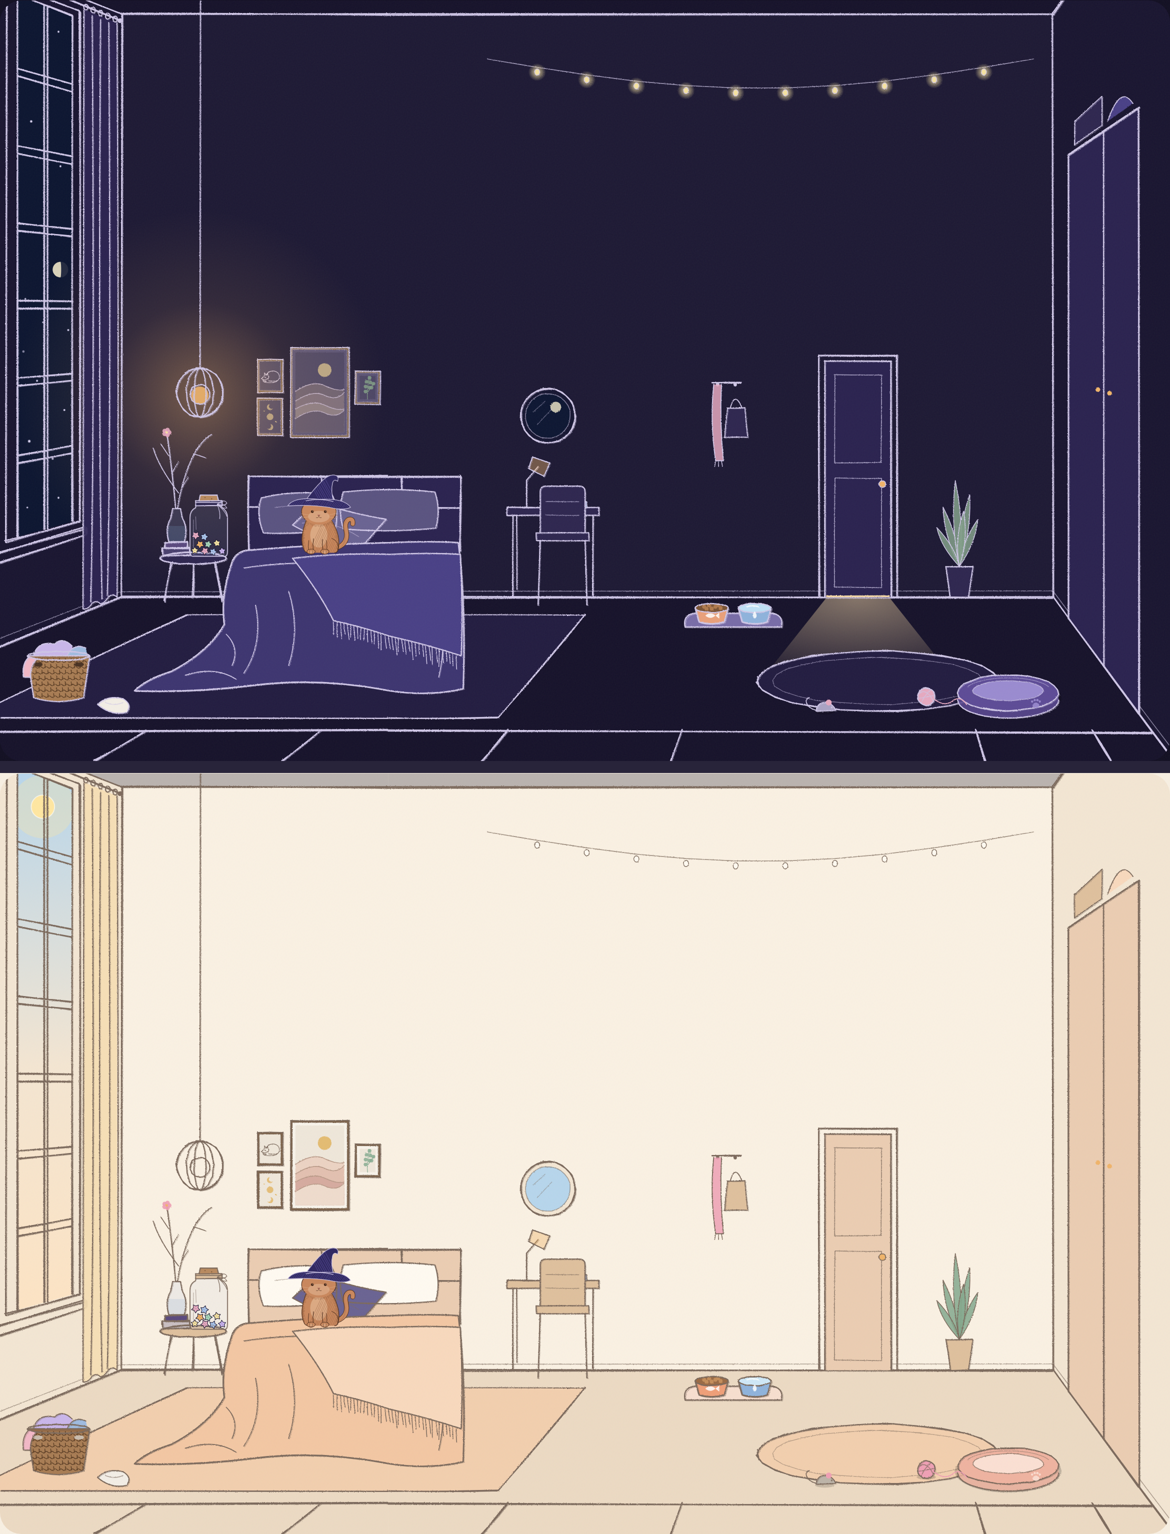
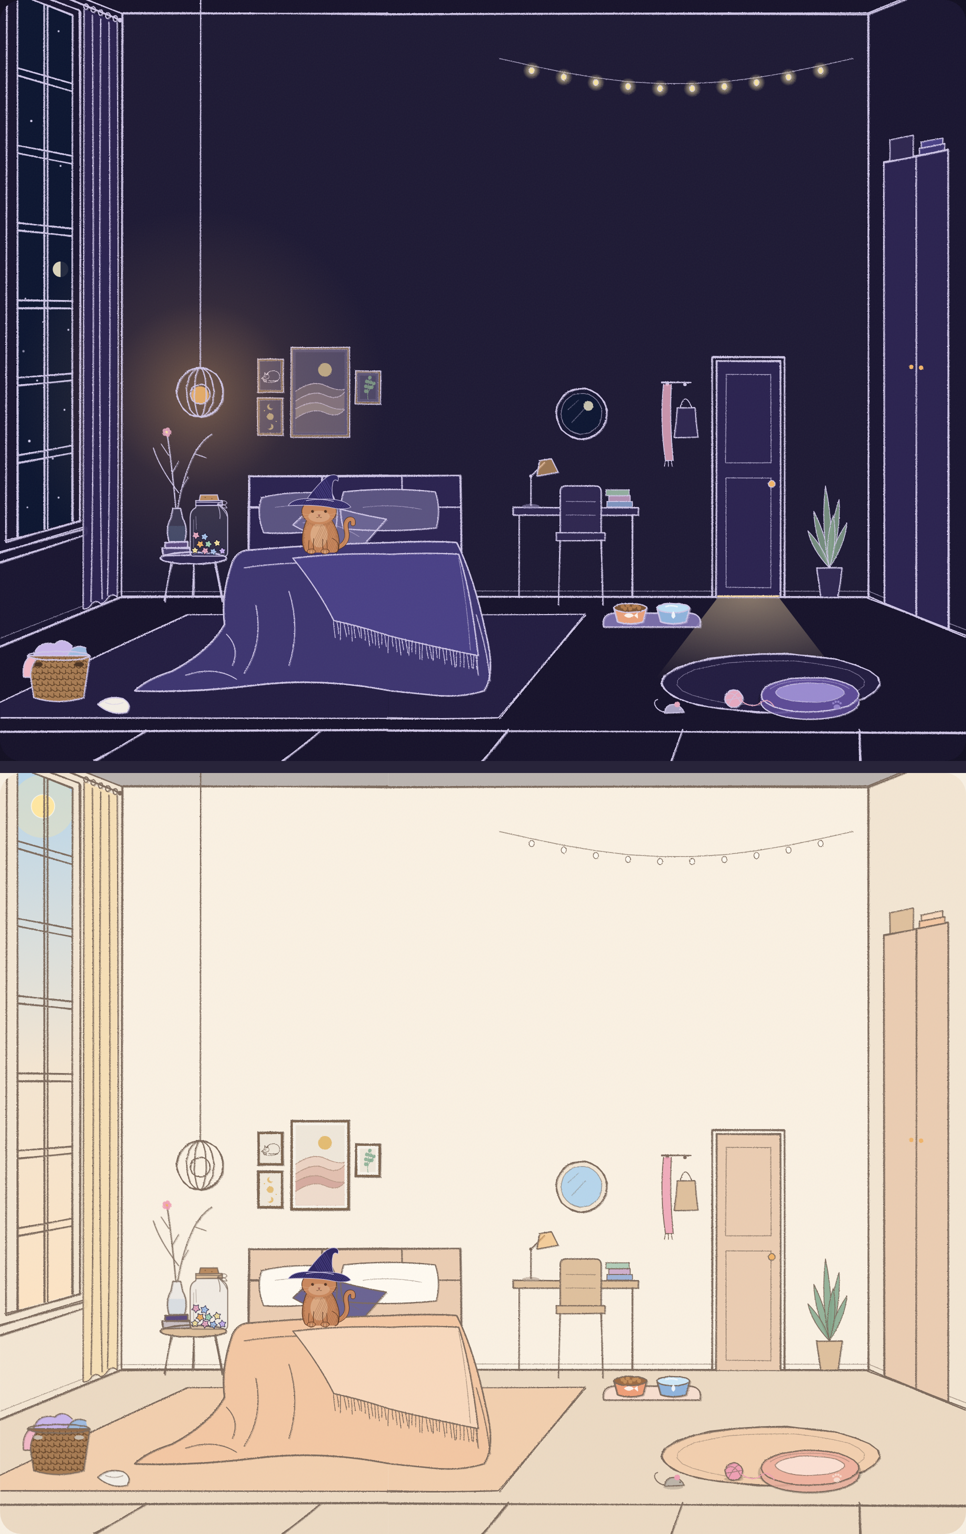
Concepts: narrower room, bed drapes over its right edge, proper desk lamp, door and wardrobe closer, clean wardrobe top
Claude-Session: https://claude.ai/code/session_01C5f6C9Ga1zTF6QU8HoafYo

diff --git a/concepts/room-three-parts.js b/concepts/room-three-parts.js
@@ -22,44 +22,42 @@ function hex(c){c=c.trim();return [1,3,5].map(function(i){return parseInt(c.subs
 var Wc=hex(cs.getPropertyValue('--wall')),CEIL=night?'#16122a':'rgb('+hex('#16122a').map(function(v,i){return Math.round(v*.28+Wc[i]*.72)}).join(',')+')';
 var TB=14-SE,s='',g='';
 
-var W=1201,RC=1080;/* правый угол комнаты: правее точки схода, поэтому стена честно уходит в перспективу */
-function ceilR(x){return VY+(TB-VY)*(x-VX)/(RC-VX)}
-function floorR(x){return VY+(392-VY)*(x-VX)/(RC-VX)}
-function lineR(y0,x){return VY+(y0-VY)*(x-VX)/(RC-VX)}
+/* ---------- рамка: две с половиной ширины экрана; правая стена — зеркало левой стены игры ---------- */
+var RC=890,W=990;
+function ceilR(x){return topL(125-(x-RC))}
+function floorR(x){return 392+50*(x-RC)/125}
+function baseR(x){return 386+50*(x-RC)/125}
 function wpR(x,fr){var yb=floorR(x),yt=ceilR(x);return [x,yb-fr*(yb-yt)]}
 function Pp(pts){return 'M'+pts.map(function(q){return f(q[0])+' '+f(q[1])}).join('L')+'Z'}
-/* ---------- стены, потолок, пол ---------- */
 s+=F('M398 '+(-SE-2)+'H'+W+'V561H398Z','var(--wall)');
 s+=F('M398 '+(-SE-2)+'H'+W+'V'+f(ceilR(W))+'L'+RC+' '+TB+'H398Z',CEIL);
 s+=F('M'+RC+' '+TB+'L'+W+' '+f(ceilR(W))+'L'+W+' '+f(floorR(W))+'L'+RC+' 392Z','var(--wall-l)');
 s+=F('M398 392L'+RC+' 392L'+W+' '+f(floorR(W))+'L'+W+' 561L398 561Z','var(--floor)');
-/* свет из-под двери */
-var D0=846,D1=914,DT=150;
-if(night)s+='<path d="M'+(D0+2)+' 392 L'+(D1-2)+' 392 L'+(D1+74)+' 488 L'+(D0-74)+' 488 Z" fill="url(#pdoor)"/>';
-/* ковёр из первой части и круглый коврик у двери */
+var D0=734,D1=800,DT=150;
+if(night)s+='<path d="M'+(D0+2)+' 392 L'+(D1-2)+' 392 L'+(D1+70)+' 486 L'+(D0-70)+' 486 Z" fill="url(#pdoor)"/>';
 var RT=600,RB=toVP(RT,410,516);
 s+=F('M398 410L'+RT+' 410L'+f(RB)+' 516L398 516Z','var(--rug)');
-s+=F(eF(900,478,124,31),'var(--rug)');
-/* каркас */
-var xP=toVP(1000,528,560),planks=ln(397,528,1181,531,1.2)+ln(520,528,toVP(520,528,560),560)+ln(700,528,toVP(700,528,560),560)+ln(1000,528,xP,560)+ln(1120,528,toVP(1120,528,560),560);
+s+=F(eF(790,480,112,30),'var(--rug)');
+var planks=ln(397,528,W,531,1.2)+ln(520,528,toVP(520,528,560),560)+ln(700,528,toVP(700,528,560),560)+ln(880,528,toVP(880,528,560),560);
 g+=SK(ln(397,TB,RC,TB)+ln(RC,TB,W,ceilR(W))+ln(RC,TB,RC,392,.8)+ln(397,392,RC,392)+ln(RC,392,W,floorR(W))+planks,1.3);
-g+=K(ln(397,386,RC,386,.6,1)+ln(RC,386,W,lineR(386,W),.6,1),.8,'k','opacity=".6"');
+g+=K(ln(397,386,RC,386,.6,1)+ln(RC,386,W,baseR(W),.6,1),.8,'k','opacity=".6"');
 g+=K(ln(397,410,RT,410,.6,1)+ln(RT,410,RB,516)+ln(397,516,RB,516),1.1);
-g+=SK(el(900,478,124,31,.9),1.1)+K(el(900,478,108,24,.6,1),.7,'k','opacity=".5"');
-/* ---------- кровать целиком (поверх старой), чтобы на стыке не было шва ---------- */
+g+=SK(el(790,480,112,30,.9),1.1)+K(el(790,480,96,23,.6,1),.7,'k','opacity=".5"');
+/* ---------- кровать целиком: справа одеяло и плед мягко свисают через край, как слева ---------- */
 var BX=472,bed='';
 bed+=F('M255 268 L'+BX+' 268 L'+BX+' 345 L255 345 Z','var(--headboard)');
 bed+=SK(pl([[255,345],[255,268],[BX,268],[BX,345]],false)+ln(255,300,BX,300,.7)+ln(330,268,330,300,.7)+ln(412,268,412,300,.7),1.2);
 var P1='M268 290 Q300 282 340 286 Q348 300 344 322 Q306 328 270 326 Q262 306 268 290Z',P2='M352 284 Q400 279 446 284 Q452 302 447 321 Q400 326 352 322 Q346 302 352 284Z',P3='M300 318 Q318 300 330 296 Q360 306 396 312 Q380 330 370 342 Q332 336 300 318Z';
 bed+=F(P1,'var(--pillow)')+F(P2,'var(--pillow)')+F(P3,'#6b6392');
-bed+=SK(P1,1.1)+SK(P2,1.1)+SK(P3,1.2)+K('M310 316 Q340 312 368 330 M282 300 Q310 296 334 300',.7,'k','opacity=".5"');
-var DV='M252 344 Q320 338 400 336 Q440 334 '+(BX-2)+' 336 Q'+(BX+6)+' 400 '+(BX+3)+' 486 Q440 494 400 488 Q330 474 262 482 Q200 490 138 488 Q150 476 176 468 Q214 448 230 420 Q226 390 238 356 Q242 346 252 344 Z';
+bed+=SK(P1,1.1)+SK(P2,1.1)+SK(P3,1.2)+K('M310 316 Q340 312 368 330 M282 300 Q310 296 334 300 M372 300 Q400 296 432 302',.7,'k','opacity=".5"');
+var DV='M252 344 Q320 338 400 336 Q440 334 '+(BX-4)+' 336 Q'+(BX+14)+' 372 '+(BX+26)+' 430 Q'+(BX+36)+' 470 '+(BX+24)+' 488 Q470 496 440 492 Q420 490 400 488 Q330 474 262 482 Q200 490 138 488 Q150 476 176 468 Q214 448 230 420 Q226 390 238 356 Q242 346 252 344 Z';
 bed+=F(DV,'var(--blanket)')+SK(DV,1.4);
-bed+=SK('M250 362 Q300 354 360 358 M262 400 Q270 440 250 470 M296 386 Q308 424 296 462 M190 472 Q220 462 242 476 M232 430 Q246 444 238 462 M418 360 Q440 356 460 360 M452 400 Q458 440 450 474',.9);
-var TH='M300 352 Q350 346 400 348 Q440 346 '+BX+' 348 Q'+(BX+3)+' 400 '+(BX+1)+' 452 Q436 440 400 432 Q370 422 342 416 Q326 384 300 352Z';
-bed+=F(TH,'var(--blanket2)')+SK(TH,1.2);
-var dd='';for(var x=342;x<=BX-2;x+=3.5){var y=x<400?416+(x-342)*16/58:432+(x-400)*20/(BX-400);dd+=ln(x,y,x+1+j(1.5),y+14+j(4),.4,1)}bed+=K(dd,.8);
-/* ---------- кошачьи вещи: понятные с первого взгляда ---------- */
+bed+=SK('M250 362 Q300 354 360 358 M262 400 Q270 440 250 470 M296 386 Q308 424 296 462 M190 472 Q220 462 242 476 M232 430 Q246 444 238 462 M'+(BX-2)+' 352 Q'+(BX+10)+' 392 '+(BX+18)+' 472 M'+(BX+16)+' 410 Q'+(BX+28)+' 450 '+(BX+30)+' 478',.9);
+var TE=BX+18,TY=452;
+var TH='M300 352 Q350 346 400 348 Q440 346 '+(BX-2)+' 348 Q'+(BX+10)+' 384 '+TE+' '+TY+' Q440 442 400 432 Q370 422 342 416 Q326 384 300 352Z';
+bed+=F(TH,'var(--blanket2)')+SK(TH,1.2)+K('M'+(BX-2)+' 352 Q'+(BX+6)+' 392 '+(BX+10)+' 446',.8,'k','opacity=".55"');
+var dd='';for(var x=342;x<=TE;x+=3.5){var y=x<400?416+(x-342)*16/58:432+(x-400)*(TY-432)/(TE-400);dd+=ln(x,y,x+1+j(1.5),y+14+j(4),.4,1)}bed+=K(dd,.8);
+
 function catBed(cx,cy,sc){var o='',rx=48*sc,ry=17*sc;
   o+=F(eF(cx,cy+5*sc,rx+3,ry+4),'#000','opacity=".18"');
   o+=F(eF(cx,cy,rx,ry),'var(--pet-rim)');
@@ -98,44 +96,43 @@ function garland(x0,x1,y,sag){var GP=[];for(var i=0;i<=11;i++){var t=i/11;GP.pus
 function plant(x,base,sc){var o=F('M'+(x-13*sc)+' '+(base-30*sc)+' L'+(x+13*sc)+' '+(base-30*sc)+' L'+(x+9*sc)+' '+base+' L'+(x-9*sc)+' '+base+'Z','var(--table)')+SK(pl([[x-13*sc,base-30*sc],[x+13*sc,base-30*sc],[x+9*sc,base],[x-9*sc,base]],true,.4,1),1.1);
   [[-16,-58],[10,-70],[-4,-84],[18,-46],[-22,-38],[4,-54]].forEach(function(l){var x0=x,y0=base-30*sc,x1=x0+l[0]*sc,y1=y0+l[1]*sc,q='M'+f(x0)+' '+f(y0)+' Q'+f((x0+x1)/2-7*sc)+' '+f((y0+y1)/2)+' '+f(x1)+' '+f(y1)+' Q'+f((x0+x1)/2+7*sc)+' '+f((y0+y1)/2)+' '+f(x0)+' '+f(y0);o+=F(q+'Z','var(--leaf)','opacity=".88"')+K(q,.8)});return o}
 var wall='',front='';
-/* ---------- гирлянда над всей второй стеной ---------- */
-wall+=garland(500,1060,TB+46,30);
-/* ---------- столик с зеркалом (как во второй половине), чуть правее кровати ---------- */
-var DX=516;
+wall+=garland(512,RC-16,TB+46,26);
+/* ---------- столик: лампа на столе слева, книги справа, стул задвинут ---------- */
+var DX=526;
 wall+='<g transform="translate('+DX+' 0)">';
-wall+=F(eF(46,206,28,28),'var(--wall-l)')+F(eF(46,206,23,23),night?'#0c1530':'var(--sky1)');
-if(night)wall+='<circle cx="54" cy="197" r="5.5" fill="var(--moon)" opacity=".85"/>';
-wall+=SK(el(46,206,28,28,.5),1.3)+K(el(46,206,23,23,.4,1),.8,'k','opacity=".6"')+K('M31 202 L43 191 M35 215 L50 199',.8,'k','opacity=".4"');
-wall+=F('M4 300H98V308H4Z','var(--table)')+SK(pl([[4,300],[98,300],[98,308],[4,308]],true,.4,1),1.2);
-wall+=SK(ln(10,308,10,392,.4)+ln(92,308,92,392,.4)+ln(14,308,14,384,.3,1),1.1);
-wall+=SK('M18 300 L30 300 M24 300 L24 272 L36 258',1.2)+F('M30 248 L48 254 L42 268 L26 260Z','var(--lamp)','opacity=".4"')+SK(pl([[30,248],[48,254],[42,268],[26,260]],true,.3,1),1.1);
-[['#8fa8d6',62,294,24],['#c9a3c8',64,288,20],['#a6c7b0',61,282,22]].forEach(function(b){wall+=F('M'+b[1]+' '+b[2]+'h'+b[3]+'v6h-'+b[3]+'Z',b[0],'opacity=".85"')+K(pl([[b[1],b[2]],[b[1]+b[3],b[2]],[b[1]+b[3],b[2]+6],[b[1],b[2]+6]],true,.3,1),.9)});
-wall+=F('M42 286h10v14h-10Z','var(--pillow)')+K(pl([[42,286],[52,286],[52,300],[42,300]],true,.3,1),1)+K('M52 290 q5 0 5 4 q0 4 -5 4',1);
-wall+=F('M38 284 Q38 278 44 278 L78 278 Q84 278 84 284 L84 326 L38 326Z','var(--table)')+SK('M38 326 L38 284 Q38 278 44 278 L78 278 Q84 278 84 284 L84 326',1.2);
-wall+=K(ln(44,294,78,294,.3,1)+ln(44,308,78,308,.3,1),.8,'k','opacity=".6"');
-wall+=F('M34 326H88V334H34Z','var(--table)')+SK(pl([[34,326],[88,326],[88,334],[34,334]],true,.3,1),1.1)+SK(ln(38,334,36,400,.4)+ln(84,334,86,400,.4),1.1);
+wall+=F(eF(70,204,26,26),'var(--wall-l)')+F(eF(70,204,21,21),night?'#0c1530':'var(--sky1)');
+if(night)wall+='<circle cx="77" cy="196" r="5" fill="var(--moon)" opacity=".85"/>';
+wall+=SK(el(70,204,26,26,.5),1.3)+K(el(70,204,21,21,.4,1),.8,'k','opacity=".6"')+K('M56 200 L67 190 M60 213 L74 198',.8,'k','opacity=".4"');
+wall+=F('M0 300H128V308H0Z','var(--table)')+SK(pl([[0,300],[128,300],[128,308],[0,308]],true,.4,1),1.2);
+wall+=SK(ln(6,308,6,392,.4)+ln(122,308,122,392,.4),1.1);
+/* настольная лампа: основание, стойка, локоть, абажур колпаком вниз */
+wall+=F(eF(18,299,9,2.4),'var(--ink-soft)','opacity=".6"')+SK('M18 298 L18 268 L32 254',1.2)+'<circle cx="18" cy="268" r="1.6" fill="var(--ink)"/>';
+wall+=F('M27 252 L39 250 L46 264 L24 268 Z','var(--lamp)','opacity=".6"')+SK('M27 252 L39 250 L46 264 L24 268 Z',1.1);
+[['#8fa8d6',96,294,26],['#c9a3c8',98,288,22],['#a6c7b0',95,282,24]].forEach(function(b){wall+=F('M'+b[1]+' '+b[2]+'h'+b[3]+'v6h-'+b[3]+'Z',b[0],'opacity=".85"')+K(pl([[b[1],b[2]],[b[1]+b[3],b[2]],[b[1]+b[3],b[2]+6],[b[1],b[2]+6]],true,.3,1),.9)});
+wall+=F('M48 284 Q48 278 54 278 L84 278 Q90 278 90 284 L90 326 L48 326Z','var(--table)')+SK('M48 326 L48 284 Q48 278 54 278 L84 278 Q90 278 90 284 L90 326',1.2);
+wall+=K(ln(54,294,84,294,.3,1)+ln(54,308,84,308,.3,1),.8,'k','opacity=".6"');
+wall+=F('M44 326H94V334H44Z','var(--table)')+SK(pl([[44,326],[94,326],[94,334],[44,334]],true,.3,1),1.1)+SK(ln(48,334,46,400,.4)+ln(90,334,92,400,.4),1.1);
 wall+='</g>';
-/* ---------- крючки с шарфом и сумкой ---------- */
-wall+='<g transform="translate(652 4)">'+K(ln(78,168,108,168,.4),1.3)+'<circle cx="84" cy="170" r="1.8" fill="var(--ink)"/><circle cx="102" cy="170" r="1.8" fill="var(--ink)"/>';
+/* ---------- полка-вешалка у двери ---------- */
+wall+='<g transform="translate(600 4)">'+K(ln(78,168,108,168,.4),1.3)+'<circle cx="84" cy="170" r="1.8" fill="var(--ink)"/><circle cx="102" cy="170" r="1.8" fill="var(--ink)"/>';
 wall+=F('M80 170 Q76 208 82 248 L90 248 Q86 210 88 170Z','var(--blossom)','opacity=".85"')+K('M80 170 Q76 208 82 248 L90 248 Q86 210 88 170',1)+K('M82 248 l-1 6 M85 248 l0 6 M88 248 l1 6',.8);
 wall+=F('M94 194 L112 194 L115 224 L91 224Z','var(--table)')+SK(pl([[94,194],[112,194],[115,224],[91,224]],true,.4,1),1)+K('M97 194 Q102 176 109 194',1)+'</g>';
 /* ---------- дверь ---------- */
 wall+=F(Pp([[D0,DT],[D1,DT],[D1,392],[D0,392]]),'var(--headboard)');
-wall+=SK(pl([[D0-6,392],[D0-6,DT-6],[D1+6,DT-6],[D1+6,392]],false,.6)+pl([[D0,392],[D0,DT],[D1,DT],[D1,392]],false,.5),1.3);
+wall+=SK(pl([[D0-4,392],[D0-4,DT-4],[D1+4,DT-4],[D1+4,392]],false,.6)+pl([[D0,392],[D0,DT],[D1,DT],[D1,392]],false,.5),1.3);
 wall+=K(pl([[D0+10,DT+14],[D1-10,DT+14],[D1-10,DT+104],[D0+10,DT+104]],true,.4,1)+pl([[D0+10,DT+120],[D1-10,DT+120],[D1-10,382],[D0+10,382]],true,.4,1),.9,'k','opacity=".7"');
 wall+='<circle cx="'+(D1-9)+'" cy="276" r="3.4" fill="var(--lamp)"/>'+K(el(D1-9,276,3.4,3.4,.3,1),.9);
 if(night)wall+=K(ln(D0+2,391,D1-2,391,.2,1),1.8,'k','style="stroke:#f6d9a8"');
-/* ---------- высокое растение между дверью и углом ---------- */
-wall+=plant(984,392,1.05);
-/* ---------- шкаф на правой стене, в перспективе ---------- */
-var A=wpR(1096,0),B=wpR(1096,.74),C=wpR(1168,.74),Dd=wpR(1168,0),M1=wpR(1132,0),M2=wpR(1132,.74);
+wall+=plant(850,392,1.0);
+/* ---------- шкаф на правой стене; вещи сверху стоят ровно по его крышке ---------- */
+var x1=RC+16,x2=RC+82,FR=.74,A=wpR(x1,0),B=wpR(x1,FR),C=wpR(x2,FR),Dd=wpR(x2,0),xm=(x1+x2)/2,M1=wpR(xm,0),M2=wpR(xm,FR);
 wall+=F(Pp([A,B,C,Dd]),'var(--headboard)')+SK(pl([A,B,C,Dd],true,.5),1.4)+SK(ln(M1[0],M1[1],M2[0],M2[1],.4),1.1);
-var k1=wpR(1126,.38),k2=wpR(1138,.38);wall+='<circle cx="'+f(k1[0])+'" cy="'+f(k1[1])+'" r="2.4" fill="var(--lamp)"/><circle cx="'+f(k2[0])+'" cy="'+f(k2[1])+'" r="2.4" fill="var(--lamp)"/>';
-var b1=wpR(1102,.75),b2=wpR(1130,.75);wall+=F(Pp([b1,[b1[0],b1[1]-24],[b2[0],b2[1]-30],b2]),'var(--table)')+SK(pl([b1,[b1[0],b1[1]-24],[b2[0],b2[1]-30],b2],true,.4,1),1);
-var b3=wpR(1136,.75),b4=wpR(1162,.75);wall+=F('M'+f(b3[0])+' '+f(b3[1])+' Q'+f((b3[0]+b4[0])/2)+' '+f(Math.min(b3[1],b4[1])-20)+' '+f(b4[0])+' '+f(b4[1])+'Z','var(--blanket2)')+K('M'+f(b3[0])+' '+f(b3[1])+' Q'+f((b3[0]+b4[0])/2)+' '+f(Math.min(b3[1],b4[1])-20)+' '+f(b4[0])+' '+f(b4[1]),1);
-/* ---------- вещи Пирожка (вариант В): миски у стены, лежанка, клубок, мышка ---------- */
-front+=bowls(752,420)+catBed(1034,490,1.08)+yarn(950,494,9)+mouse(846,506);
+var k1=wpR(xm-5,.4),k2=wpR(xm+5,.4);wall+='<circle cx="'+f(k1[0])+'" cy="'+f(k1[1])+'" r="2.3" fill="var(--lamp)"/><circle cx="'+f(k2[0])+'" cy="'+f(k2[1])+'" r="2.3" fill="var(--lamp)"/>';
+function onTop(xa,xb,h,fill){var a=wpR(xa,FR),b=wpR(xb,FR),p=[a,[a[0],a[1]-h],[b[0],b[1]-h],b];return F(Pp(p),fill)+SK(pl(p,true,.3,1),1)}
+wall+=onTop(x1+6,x1+30,22,'var(--table)')+onTop(x1+36,x2-4,7,'var(--blanket)');
+var t1=wpR(x1+38,FR),t2=wpR(x2-6,FR);wall+=F(Pp([[t1[0],t1[1]-7],[t1[0],t1[1]-13],[t2[0],t2[1]-13],[t2[0],t2[1]-7]]),'var(--blanket2)')+SK(pl([[t1[0],t1[1]-7],[t1[0],t1[1]-13],[t2[0],t2[1]-13],[t2[0],t2[1]-7]],true,.3,1),1);
+/* ---------- вещи Пирожка ---------- */
+front+=bowls(668,420)+catBed(830,492,1.05)+yarn(752,496,9)+mouse(690,508);
 s+='<defs><radialGradient id="pbulb"><stop offset="0" stop-color="#f6e3a1" stop-opacity=".9"/><stop offset="1" stop-color="#f6e3a1" stop-opacity="0"/></radialGradient><radialGradient id="pdoor" cx=".5" cy="0" r="1"><stop offset="0" stop-color="#f6d9a8" stop-opacity=".5"/><stop offset="1" stop-color="#f6d9a8" stop-opacity="0"/></radialGradient></defs>';
 return s+'<g filter="url(#pencil)">'+g+wall+'</g><g filter="url(#pencil)">'+bed+'</g><g id="catAgain"></g><g filter="url(#pencil)">'+front+'</g>';
-
 };

diff --git a/concepts/README.md b/concepts/README.md
@@ -12,7 +12,7 @@
 
 `room-panorama-variants.png` — три варианта бесшовной панорамы на два экрана (ночь и день): вторая половина продолжает ту же стену и пол в той же перспективе, кровать дорисована целиком, так что при свайпе нет шва. А — кошачий уголок (домик-когтеточка, полка, портрет Пирожка), Б — читальный уголок (кресло, торшер, стеллаж), В — столик и зеркало. Во всех: лежанка с лапкой на бортике, две миски на коврике (еда с рыбкой, вода с каплей), клубок и мышка. Код — `room-panorama.js`.
 
-`room-three-parts.png` — комната на три экрана (ночь и день): 1) окно, кровать, банка, стирка — как в игре; 2) кровать закончена справа, столик с зеркалом, миски; 3) крючки, дверь со светом из коридора, растение, коврик с лежанкой, клубком и мышкой, шкаф на правой стене в перспективе. Одна точка схода, без швов. Код — `room-three-parts.js`.
+`room-three-parts.png` — комната примерно на два с половиной экрана (ночь и день): 1) окно, кровать, банка, стирка — как в игре; 2) кровать закончена справа, столик с зеркалом, миски; 3) крючки, дверь со светом из коридора, растение, коврик с лежанкой, клубком и мышкой, шкаф на правой стене в перспективе. Одна точка схода, без швов. Код — `room-three-parts.js`.
 
 Идея на потом: перелистывать половины комнаты свайпом, у новых предметов свои маленькие ритуалы (включить гирлянду, налить Пирожку воды, переложить книги).
 
